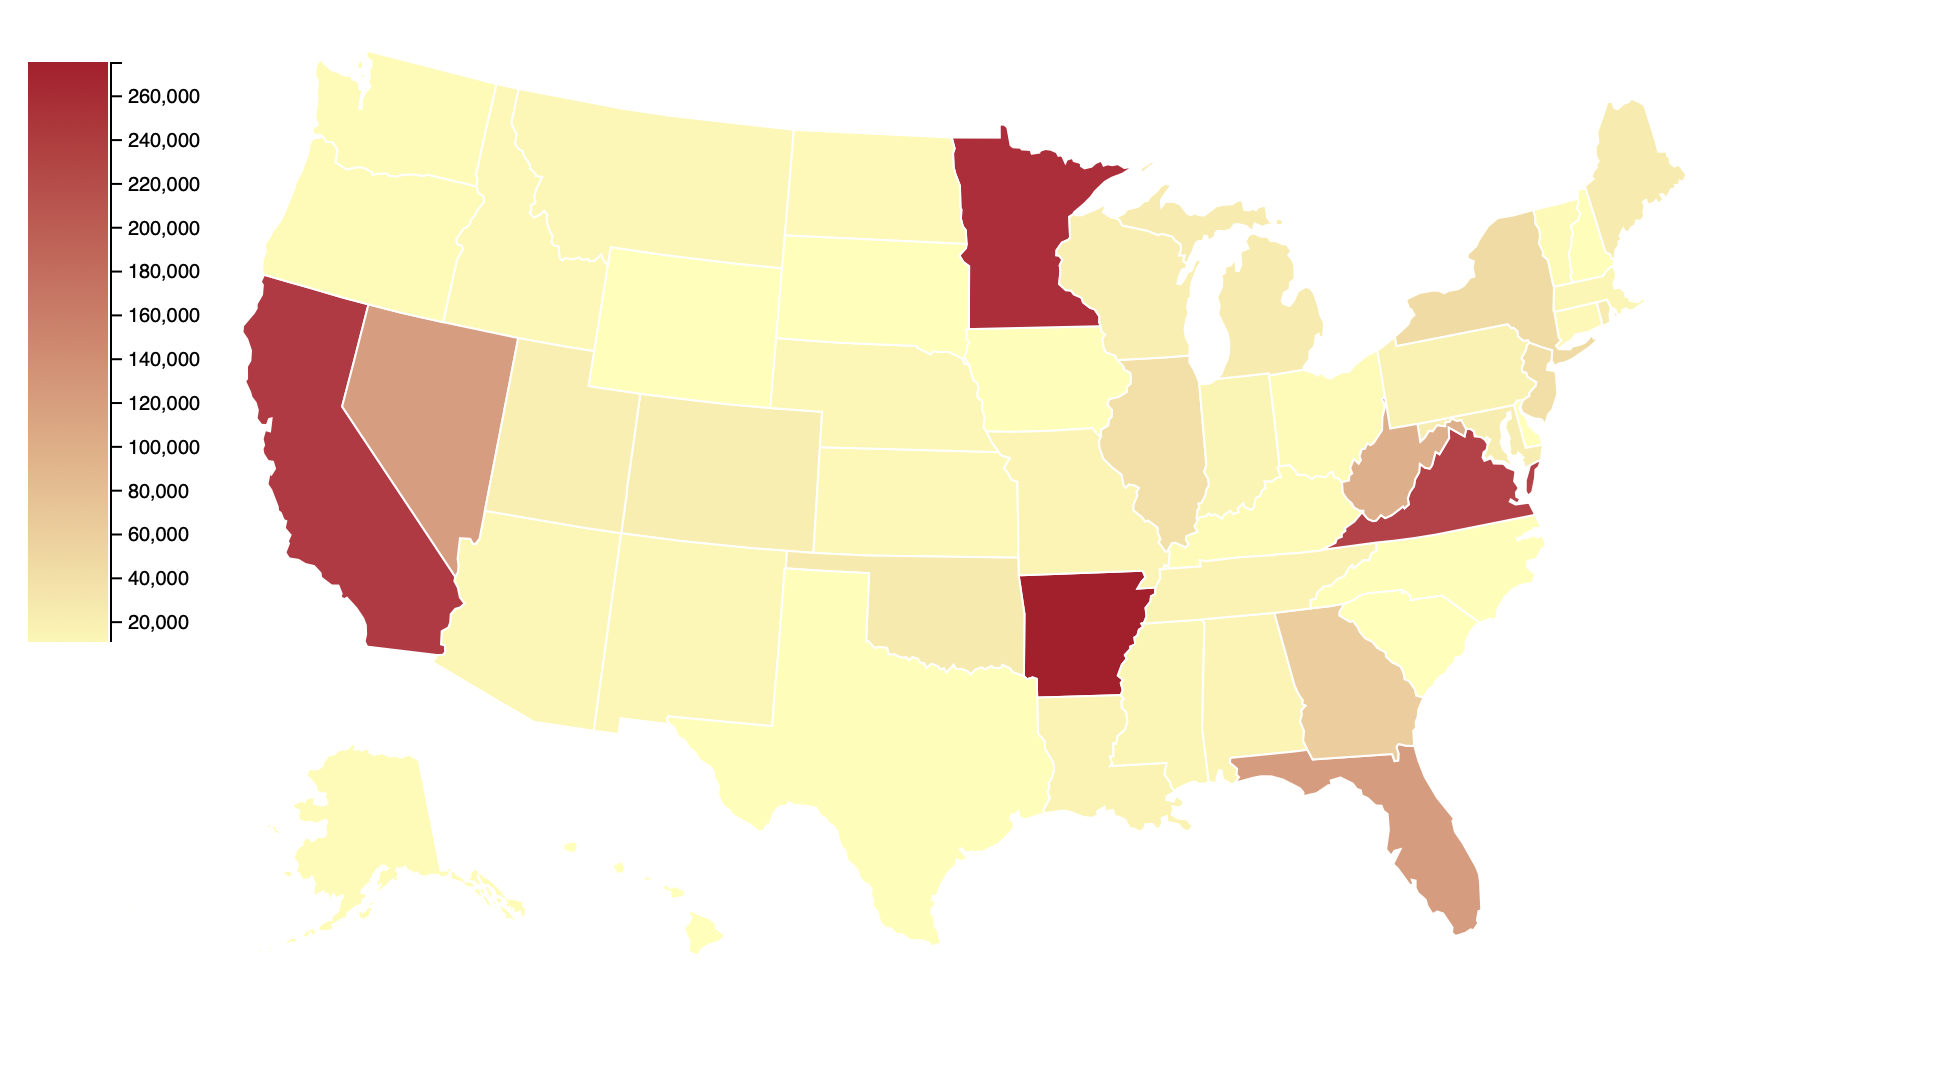
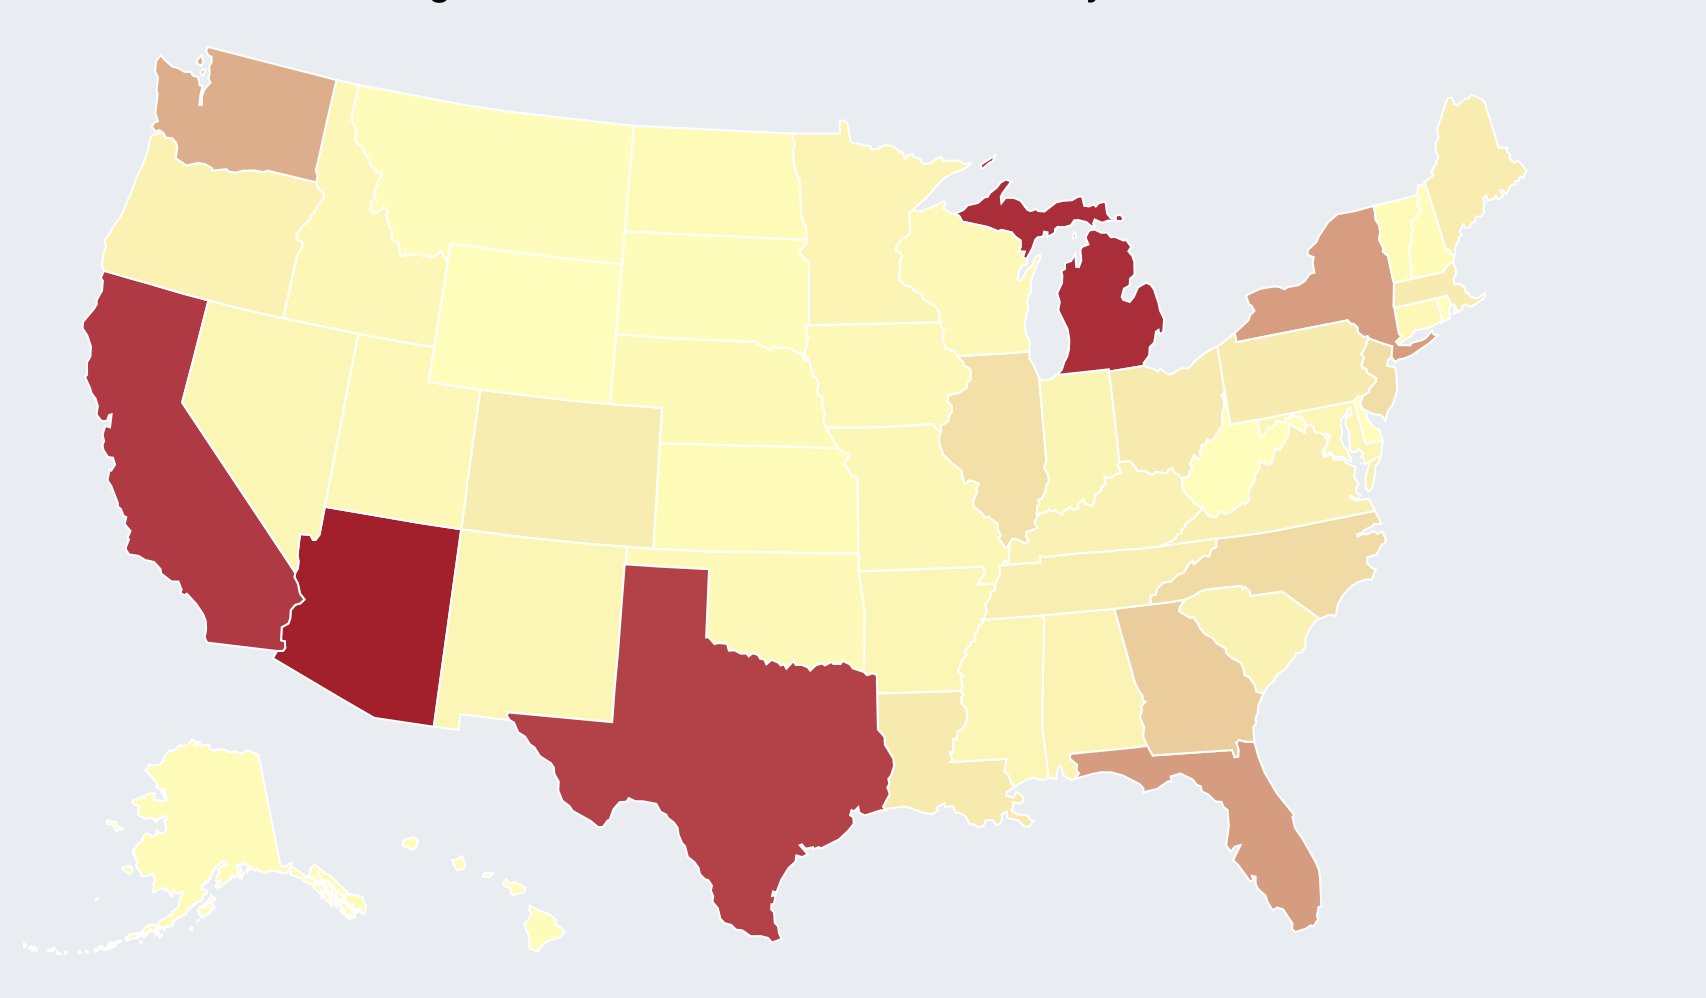
added third viz writeup

diff --git a/views/viz3.html b/views/viz3.html
@@ -19,8 +19,9 @@
       .legend {
         position: relative;
         justify-content: left;
-        top: -525px;
-        left: 120px;
+        margin-top: -525px;
+        margin-left: 120px;
+        bottom: 450px;
       }
 
       .axis text {
@@ -50,10 +51,66 @@
     </div>
     <div class="container">
       <div class="row" id="container-chart">
-        <div id="chart"></div>
+        <div class="row">
+          <h1 id="title">
+            Which US states are nonimmigrants entering the US from?
+          </h1>
+          <h4>About Dataset Used for Choropleth:</h4>
+          <p class="larger-text">
+            Dataset is from Department of Homeland Security. It has the amount
+            of admissions by state of temporary workers and their famlies in the
+            fiscal year 2021.
+          </p>
+          <h4>Our Question:</h4>
+          <p class="larger-text">
+            Coming from the previous visualizations and data, we found out where
+            these nonimmigrants were coming from and the amount of admissions
+            over time. This led us to ask the question: where are all these
+            people entering into the US? We also hypothesized that the coastal
+            regions would be the most common entry points, and we wanted to see
+            if we are correct in that hypothesis. Another question of ours was
+            what states recieve the most immigrants, and what are legislative
+            policies in these states regarding immigrants?
+          </p>
+          <div id="chart"></div>
+          <h4>Analysis of Chart:</h4>
+          <p class="larger-text">
+            Our intital hypothesis was correct because the coastal parts of the
+            US have the most admissions: California, Florida, and all along the
+            East Coast. The ones that stood out the most were Michigan,
+            Washington, Arizona, and Texas. We wonder why Michigan and
+            Washington have a higher amount of admissions. We believe it to be
+            due to Canada because Vancouver is extremely close to Washington
+            state. For Michigan, we believe it is because of Toronto. However,
+            we wonder why Arizona and Texas have such a high level of
+            admissions. We know it is most likely due to Mexico and South
+            America, but why not New Mexico? This choropleth helps easily locate
+            large entry points, and it is important to see these, so we can
+            start asking more questions about these particular states. Do these
+            states have more opportunities for nonimmigrants? Are these states
+            more open to nonimmigrants? Do these states have increasing pressure
+            because the amount of nonimmigrants flowing into the state? Or do
+            these states just have major airports where the nonimmgrants
+            intially enter the country, then go to their own state after intial
+            entry?
+          </p>
+          <h4>Further Discussion:</h4>
+          <p class="larger-text">
+            This choropleth is a great tool to quickly find hotspots within the US when 
+            it comes to admissions. It is easy to see that California, Arizona, Michigan, Texas, 
+            Florida, New York, and Washington state have the highest level of admissions. 
+            We think there are obvious answers for most of them, but some of them are a little 
+            perplexing. It makes sense for California to have a large amount because of 
+            its proximity to Asia, and to Mexico. Same with Arizona and Texas for Mexico and 
+            South America, but why not New Mexico? One idea that we have is that New Mexico's population (2.1 million) 
+            is significantly lower than Arizona (7.3 million) and further more, Texas (29.5 million).
+          </p>
+        </div>
       </div>
       <div class="row">
-        <a href="../index.html" class="btn btn-default btn-sm" role="button">Go back to Main Page</a>
+        <a href="../index.html" class="btn btn-default btn-sm" role="button"
+          >Go back to Main Page</a
+        >
       </div>
     </div>
     <script type="text/javascript">
@@ -227,9 +284,7 @@
         .attr("text-anchor", "middle")
         .style("font-size", "20px")
         .style("text-decoration", "underline")
-        .text(
-          "# of nonimmigrant worker admissions to the US by state in 2021"
-        );
+        .text("# of Nonimmigrant Worker Admissions to the US by State in 2021");
     </script>
   </body>
 </html>

diff --git a/index.html b/index.html
@@ -34,7 +34,6 @@
 					A line chart of the number of nonimmigrant admissions into the US by continent between the years 2012-2021. 
 					The chart displays the trends of the number of visits by these workers to the US over time and the impact of 
 					COVID on it as well.
-					<div class="filler">filler</div>
 				</p>
 				<div class="text-center">
 					<a href="/views/viz1.html" class="btn btn-primary" role="button">Click to View!</a>
@@ -61,9 +60,13 @@
 				<div class="text-center">
 					<h3>Visualization 3</h3>
 				</div>
-				<img src="/images/viz3_icon.png" class="img-rounded" style="width:100%" alt="viz3">
+				<img src="/images/viz3_icon.png" class="img-rounded"  style="width: 97%;" alt="viz3">
 				<p class="text-justify">
-					Placeholder
+					A choropleth of the number of 
+					nonimmigrant workers who came into the US in 2021 by the 
+					state that they entered in. This highlights how the 
+					majority of these workers enter through Arizona, Michigan, California, 
+					Texas, Florida, and New York.
 				</p>
 				<div class="text-center">
 					<a href="/views/viz3.html" class="btn btn-primary" role="button">Click to View!</a>

diff --git a/views/viz1.html b/views/viz1.html
@@ -18,11 +18,11 @@
   <div class="container">
     <div class="row">
       <h1 id="title"></h1>
-      <div id="aboutDataset"></div>
-      <div id="aboutQuestion"></div>
-      <div id="chart"></div>
-      <div id="aboutChart"></div>
-      <div id="furtherDiscussion"></div>
+      <div class="larger-text" id="aboutDataset"></div>
+      <div class="larger-text" id="aboutQuestion"></div>
+      <div class="larger-text" id="chart"></div>
+      <div class="larger-text" id="aboutChart"></div>
+      <div class="larger-text" id="furtherDiscussion"></div>
     </div>
     <div class="row">
 			<a href="../index.html" class="btn btn-default btn-sm" role="button">Go back to Main Page</a>

diff --git a/views/viz2.html b/views/viz2.html
@@ -17,11 +17,11 @@
   <div class="container">
     <div class="row">
       <h1 id="title"></h1>
-      <div id="aboutQuestion"></div>
-      <div id="chart"></div>
-      <div id="aboutChart"></div>
-      <div id="logChart"></div>
-      <div id="aboutLogChart"></div>
+      <div class="larger-text" id="aboutQuestion"></div>
+      <div class="larger-text" id="chart"></div>
+      <div class="larger-text" id="aboutChart"></div>
+      <div class="larger-text" id="logChart"></div>
+      <div class="larger-text" id="aboutLogChart"></div>
     </div>
     <div class="row">
 			<a href="../index.html" class="btn btn-default btn-sm" role="button">Go back to Main Page</a>

diff --git a/style.css b/style.css
@@ -5,12 +5,12 @@
     margin-bottom: 10px;
 }
 
-body {
+/* body {
     background-color: #E8EDF2;
-}
+} */
 
 .jumbotron {
-    background-color: white;
+    background-color: #E8EDF2;
 }
 
 .our-story {
@@ -19,4 +19,8 @@ body {
 
 .filler {
     color: #E8EDF2;
+}
+
+.larger-text {
+    font-size: 1.5rem;
 }
